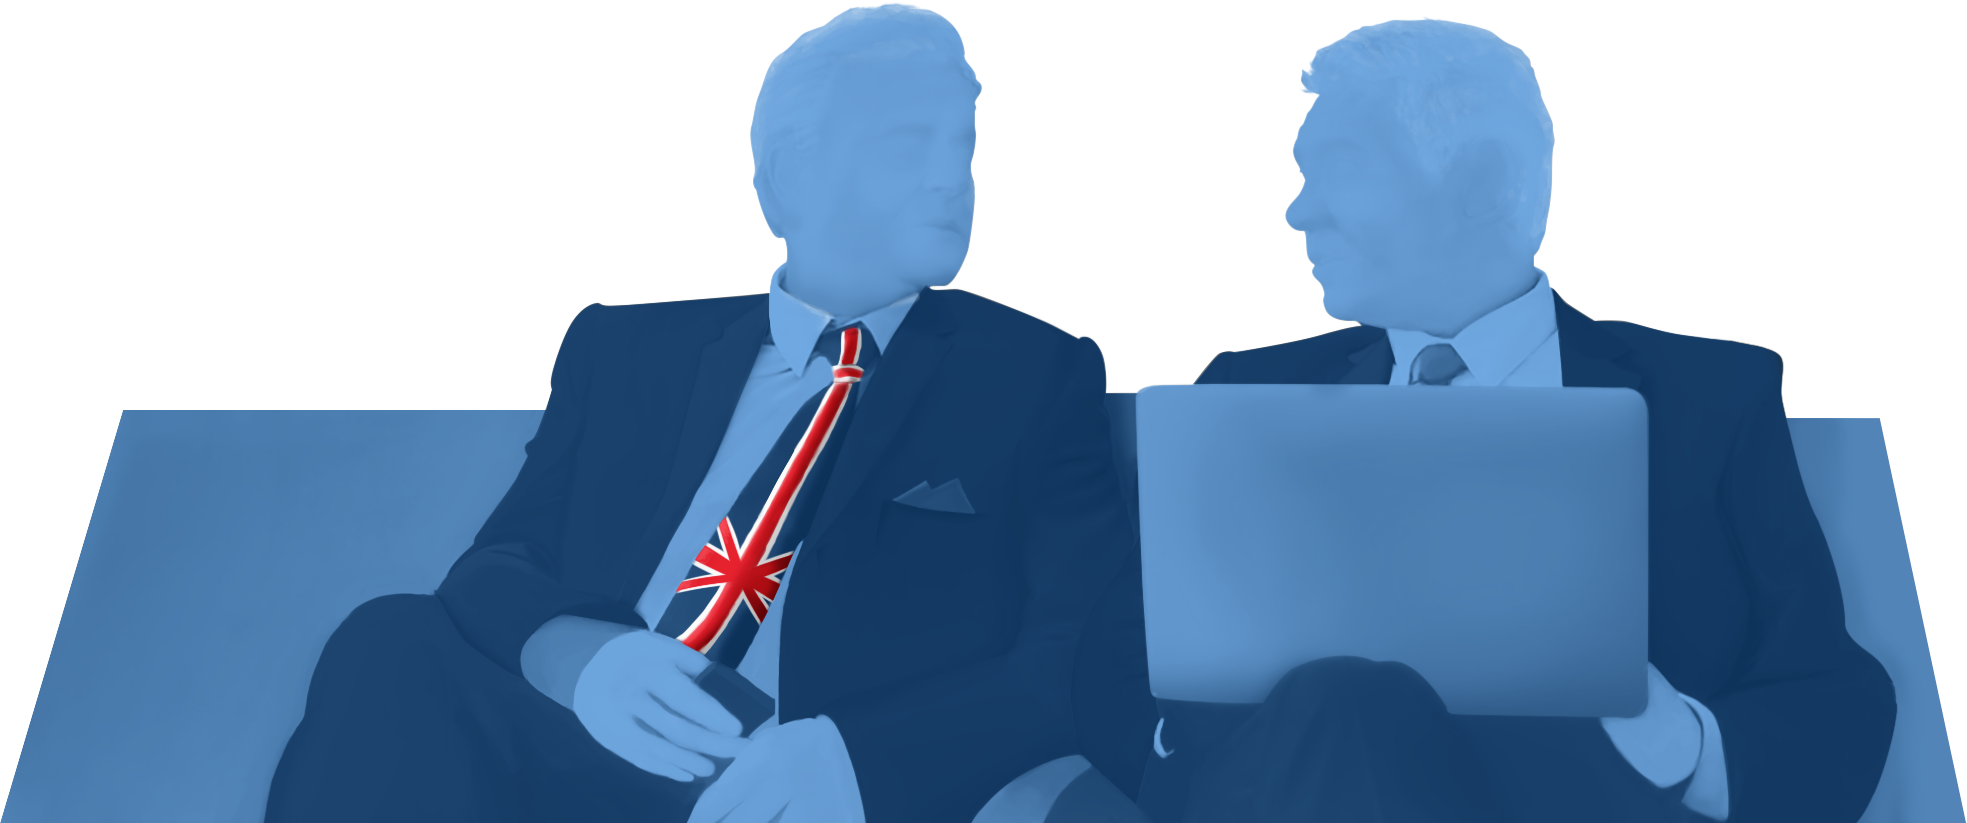
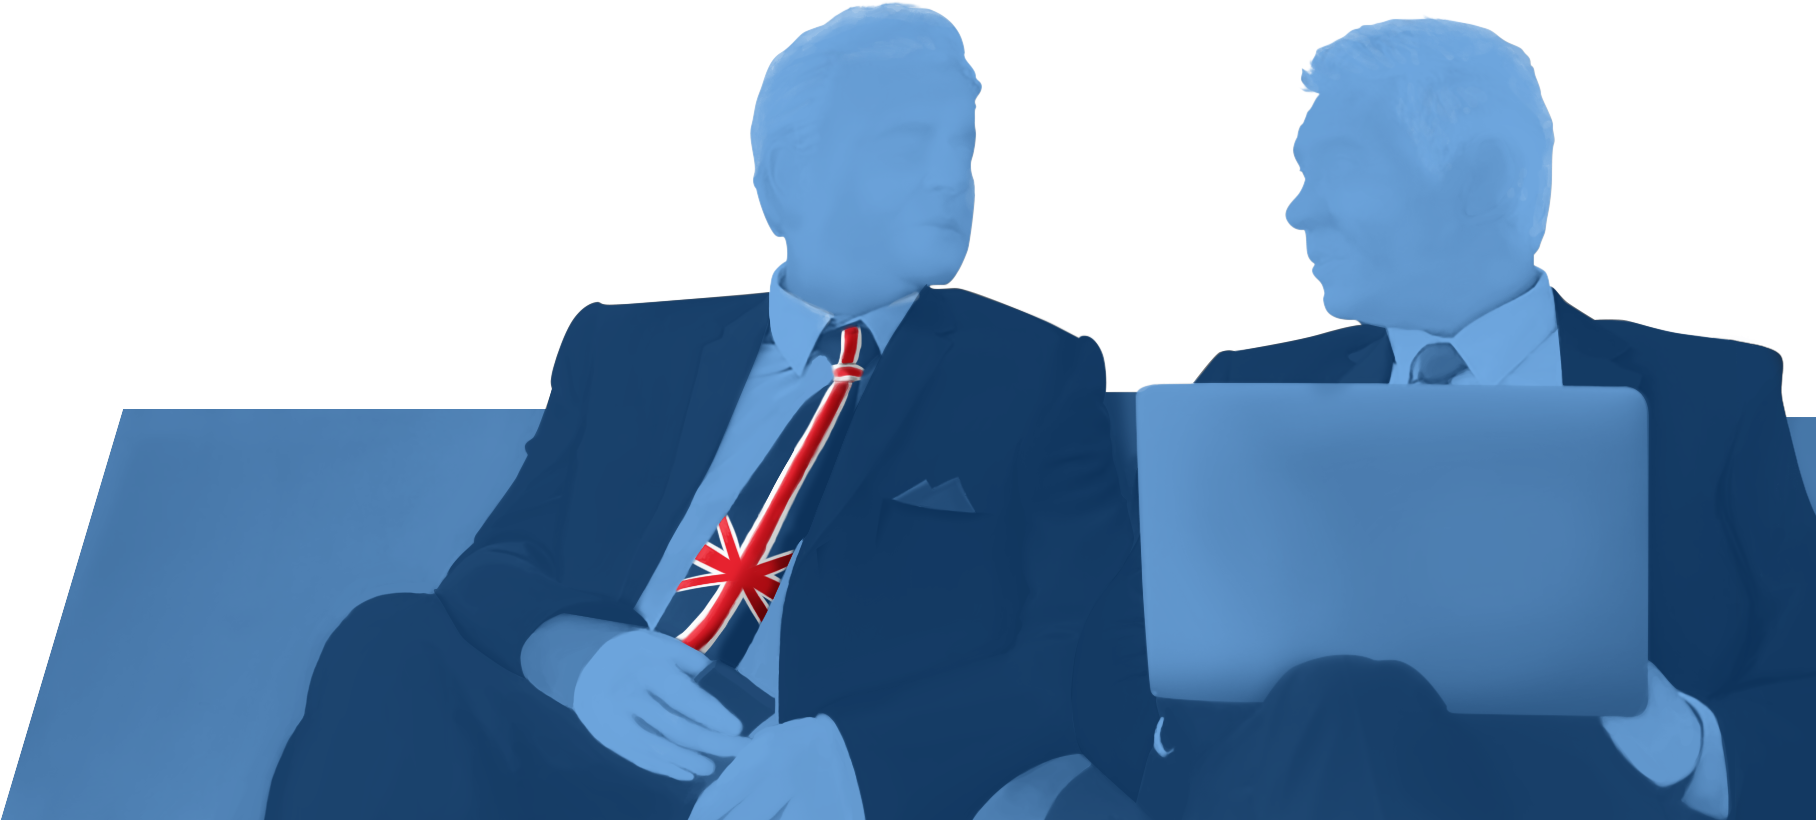
aggiunta prima sezione main

Changed region(s): [[0.1233, 0.0, 1.0, 1.0], [0.0308, 0.5183, 0.0617, 0.7317], [0.0617, 0.4878, 0.0925, 0.5183]]

diff --git a/index.html b/index.html
@@ -54,7 +54,35 @@
     </header>
 
     <main>
+      <section id="process">
+        <div class="steps">
+          <img src="img\fluentify-piano.svg" alt="">
+          <h3>Piano formativo configurato sul proprio livello</h3>
+          <p>Lorem ipsum dolor sit amet, consectetur adipisicing elit, sed do eiusmod tempor incididunt ut labore et dolore magna aliqua. Ut enim ad minim veniam, quis nostrud exercitation ullamco laboris nisi ut aliquip ex ea commodo consequat.</p>
+        </div>
 
+        <div class="steps">
+          <img src="img\fluentify-affiancamento.svg" alt="">
+          <h3>Affiancamento costante del tutor</h3>
+          <p>Lorem ipsum dolor sit amet, consectetur adipisicing elit, sed do eiusmod tempor incididunt ut labore et dolore magna aliqua. Ut enim ad minim veniam, quis nostrud exercitation ullamco laboris nisi ut aliquip ex ea commodo consequat.</p>
+        </div>
+
+        <div class="steps">
+          <img src="img\fluentify-monitora.svg" alt="">
+          <h3>Monitora i tuoi progressi costantemente</h3>
+          <p>Lorem ipsum dolor sit amet, consectetur adipisicing elit, sed do eiusmod tempor incididunt ut labore et dolore magna aliqua. Ut enim ad minim veniam, quis nostrud exercitation ullamco laboris nisi ut aliquip ex ea commodo consequat.</p>
+        </div>
+
+
+      </section>
+
+      <section>
+
+      </section>
+
+      <section>
+
+      </section>
     </main>
 
   </body>

diff --git a/css/style.css b/css/style.css
@@ -13,13 +13,17 @@ body {
   padding: 0 10%;
 }
 
+header {
+  height: 600px;
+}
+
 header #introduction {
   background-color: #084177;
   color: white;
   padding-top: 50px;
   position: relative;
   /* debug  */
-  height: 80vh;
+  height: 80%;
 }
 
 nav #logo {
@@ -48,9 +52,9 @@ div #interact {
 
 #twomen {
   position: absolute;
-  right: -4%;
+  right: 0;
   bottom: 0;
-  width: 65%;
+  height: 75%;
 }
 
 #secondTitle {
@@ -61,8 +65,31 @@ div #interact {
 }
 
 #comparing {
-  height: 100px;
+  height: 20%;
   background-color: lightgrey;
   text-align: center;
   padding: 30px 0;
+}
+
+#process {
+  width: 80%;
+  margin: 0 auto;
+  text-align: center;
+}
+
+.steps {
+  width: 25%;
+  margin: 40px 30px;
+  text-align: center;
+  display: inline-block;
+}
+
+.steps h3 {
+  color: green;
+  margin: 20px 0;
+}
+
+.steps img {
+  height: 150px;
+
 }
